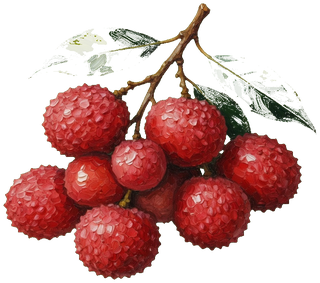
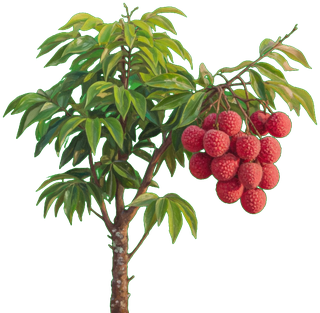
上线：椰子榴莲火龙果荔枝柚子金桔改成小树植株

diff --git a/scripts/_shot_crops.js b/scripts/_shot_crops.js
@@ -12,14 +12,14 @@
   d.coins = 120; d.level = 8; d.landLevel = 1; d.landOrigin = 'back';
   const now = Date.now();
   const mix = [
-    { id: 'lian_ou', p: 1 },
-    { id: 'tw_cauliflower', p: 1 },
+    { id: 'ye_zi', p: 1 },
+    { id: 'liu_lian', p: 1 },
+    { id: 'huo_long_guo', p: 1 },
+    { id: 'li_zhi', p: 1 },
+    { id: 'pomelo', p: 1 },
+    { id: 'kumquat', p: 1 },
     { id: 'mang_guo', p: 1 },
-    { id: 'sheng_jiang', p: 1 },
-    { id: 'taro', p: 1 },
-    { id: 'xiang_yin_putao', p: 1 },
-    { id: 'hu_luo_bo', p: 1 },
-    { id: 'yu_mi', p: 1 }
+    { id: 'xiang_yin_putao', p: 1 }
   ];
   d.plots = (d.plots || []).map((p, i) => {
     const m = mix[i % mix.length];

diff --git a/service-worker.js b/service-worker.js
@@ -70,7 +70,7 @@ self.addEventListener('notificationclick', (event) => {
 
 // CACHE_VERSION 由 deploy.sh 在每次部署时自动注入时间戳（ef-YYMMDDHHMM），
 // 不再手动 +1 —— 忘 bump 会让全体 PWA 用户静默停在旧版（iOS 要删 App 才能救）。
-const CACHE_VERSION = 'ef-2608171316';
+const CACHE_VERSION = 'ef-2608171334';
 const CACHE = 'eastern-farm-' + CACHE_VERSION;
 // Precache the FULL app shell — HTML + CSS + every JS module + data JSON — so a SW
 // update (which clears the old cache) followed by a flaky mobile network can never leave

diff --git a/src/index.html b/src/index.html
@@ -6,7 +6,7 @@
 <meta name="theme-color" content="#fdf8ee">
 <!-- 部署构建号（deploy.sh 每次注入 CACHE_VERSION 时间戳）。SW 新鲜度守卫据此
      判断本页是否已过期（见页尾脚本）。ef-dev = 未部署的本地版本。 -->
-<meta name="ef-build" content="ef-2608171316">
+<meta name="ef-build" content="ef-2608171334">
 
 <!-- ==================== PWA (add to home screen) ==================== -->
 <link rel="manifest" href="manifest.webmanifest">

diff --git a/src/worldcup.html b/src/worldcup.html
@@ -3,7 +3,7 @@
 <head>
 <meta charset="UTF-8">
 <meta name="viewport" content="width=device-width, initial-scale=1.0, viewport-fit=cover">
-<meta name="ef-build" content="ef-2608171316">
+<meta name="ef-build" content="ef-2608171334">
 <meta name="theme-color" content="#3a7d2c">
 
 <!-- ==================== PWA (add to home screen) ==================== -->

diff --git a/scripts/_key_crop_sprites.py b/scripts/_key_crop_sprites.py
@@ -9,12 +9,12 @@ MAP = ROOT / "src" / "assets" / "images" / "map"
 SESS = Path(r"C:\Users\yue00\.grok\sessions\D%3A%5C\01a00718-f95b-7452-b183-7f5defbb801b\images")
 
 JOBS = [
-    ("114.jpg", "crop_lotus"),
-    ("119.jpg", "crop_cauli"),
-    ("113.jpg", "crop_mango"),
-    ("116.jpg", "crop_ginger"),
-    ("117.jpg", "crop_taro"),
-    ("120.jpg", "crop_grape"),
+    ("121.jpg", "crop_coconut"),
+    ("127.jpg", "crop_durian"),
+    ("122.jpg", "crop_dragon"),
+    ("124.jpg", "crop_lychee"),
+    ("125.jpg", "crop_pomelo"),
+    ("128.jpg", "crop_kumquat"),
 ]
 
 
